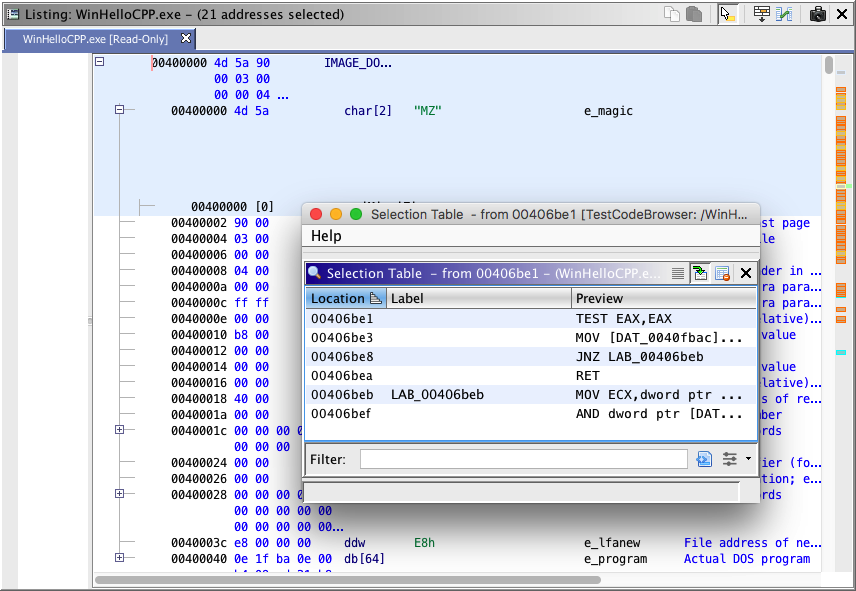
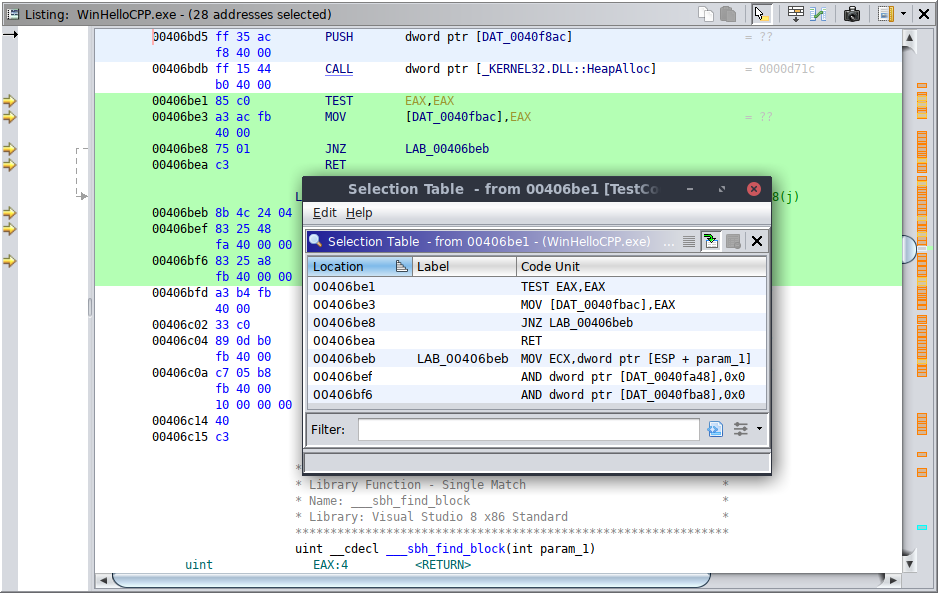
GP-1512 - fixed failing screenshot

diff --git a/Ghidra/Features/Base/src/main/java/help/screenshot/AbstractScreenShotGenerator.java b/Ghidra/Features/Base/src/main/java/help/screenshot/AbstractScreenShotGenerator.java
@@ -15,7 +15,7 @@
  */
 package help.screenshot;
 
-import static org.junit.Assert.assertNotNull;
+import static org.junit.Assert.*;
 
 import java.awt.*;
 import java.awt.geom.GeneralPath;
@@ -286,8 +286,8 @@ public abstract class AbstractScreenShotGenerator extends AbstractGhidraHeadedIn
 	/**
 	 * The same as {@link GhidraScreenShotGenerator#captureIsolatedProvider(Class, int, int)}
 	 * except this method will also capture the containing window.
-	 * 
-	 * @param clazz the provider class 
+	 *
+	 * @param clazz the provider class
 	 * @param width the width of the capture
 	 * @param height the height of the capture
 	 */
@@ -464,10 +464,10 @@ public abstract class AbstractScreenShotGenerator extends AbstractGhidraHeadedIn
 	}
 
 	/**
-	 * Captures the provider by using a screen shot and not by painting the provider directly 
+	 * Captures the provider by using a screen shot and not by painting the provider directly
 	 * (as does {@link #captureProvider(ComponentProvider)}).  Use this method if you need to
 	 * capture the provider along with any popup windows.
-	 * 
+	 *
 	 * @param provider the provider
 	 */
 	public void captureProviderWithScreenShot(ComponentProvider provider) {
@@ -487,14 +487,14 @@ public abstract class AbstractScreenShotGenerator extends AbstractGhidraHeadedIn
 	}
 
 	/**
-	 * Captures the window, including decorations.  This will use a {@link Robot} to create a 
+	 * Captures the window, including decorations.  This will use a {@link Robot} to create a
 	 * screen capture, which has the effect of getting all items within the window bounds.  This
 	 * method is needed if you wish to capture child windows, like popups/hovers.
-	 * 
-	 * <P>Other capture methods will not use the screen capture mechanism, but rather will 
-	 * directly render the given component.  In this case, subordinate windows will not be 
+	 *
+	 * <P>Other capture methods will not use the screen capture mechanism, but rather will
+	 * directly render the given component.  In this case, subordinate windows will not be
 	 * captured.  For example, see {@link #captureProvider(Class)}.
-	 * 
+	 *
 	 * @param name the provider's name
 	 */
 	public void captureProviderWindow(String name) {
@@ -504,14 +504,14 @@ public abstract class AbstractScreenShotGenerator extends AbstractGhidraHeadedIn
 	}
 
 	/**
-	 * Captures the window, including decorations.  This will use a {@link Robot} to create a 
+	 * Captures the window, including decorations.  This will use a {@link Robot} to create a
 	 * screen capture, which has the effect of getting all items within the window bounds.  This
 	 * method is needed if you wish to capture child windows, like popups/hovers.
-	 * 
-	 * <P>Other capture methods will not use the screen capture mechanism, but rather will 
-	 * directly render the given component.  In this case, subordinate windows will not be 
+	 *
+	 * <P>Other capture methods will not use the screen capture mechanism, but rather will
+	 * directly render the given component.  In this case, subordinate windows will not be
 	 * captured.  For example, see {@link #captureProvider(Class)}.
-	 * 
+	 *
 	 * @param clazz the provider's class
 	 */
 	public void captureProviderWindow(Class<? extends ComponentProvider> clazz) {
@@ -520,14 +520,14 @@ public abstract class AbstractScreenShotGenerator extends AbstractGhidraHeadedIn
 	}
 
 	/**
-	 * Captures the window, including decorations.  This will use a {@link Robot} to create a 
+	 * Captures the window, including decorations.  This will use a {@link Robot} to create a
 	 * screen capture, which has the effect of getting all items within the window bounds.  This
 	 * method is needed if you wish to capture child windows, like popups/hovers.
-	 * 
-	 * <P>Other capture methods will not use the screen capture mechanism, but rather will 
-	 * directly render the given component.  In this case, subordinate windows will not be 
+	 *
+	 * <P>Other capture methods will not use the screen capture mechanism, but rather will
+	 * directly render the given component.  In this case, subordinate windows will not be
 	 * captured.  For example, see {@link #captureProvider(Class)}.
-	 * 
+	 *
 	 * @param provider the provider
 	 */
 	public void captureProviderWindow(ComponentProvider provider) {
@@ -536,14 +536,14 @@ public abstract class AbstractScreenShotGenerator extends AbstractGhidraHeadedIn
 	}
 
 	/**
-	 * Captures the window, including decorations.  This will use a {@link Robot} to create a 
+	 * Captures the window, including decorations.  This will use a {@link Robot} to create a
 	 * screen capture, which has the effect of getting all items within the window bounds.  This
 	 * method is needed if you wish to capture child windows, like popups/hovers.
-	 * 
-	 * <P>Other capture methods will not use the screen capture mechanism, but rather will 
-	 * directly render the given component.  In this case, subordinate windows will not be 
+	 *
+	 * <P>Other capture methods will not use the screen capture mechanism, but rather will
+	 * directly render the given component.  In this case, subordinate windows will not be
 	 * captured.  For example, see {@link #captureProvider(Class)}.
-	 * 
+	 *
 	 * @param name the provider's name
 	 * @param width the desired width
 	 * @param height the desired height
@@ -557,14 +557,14 @@ public abstract class AbstractScreenShotGenerator extends AbstractGhidraHeadedIn
 	}
 
 	/**
-	 * Captures the window, including decorations.  This will use a {@link Robot} to create a 
+	 * Captures the window, including decorations.  This will use a {@link Robot} to create a
 	 * screen capture, which has the effect of getting all items within the window bounds.  This
 	 * method is needed if you wish to capture child windows, like popups/hovers.
-	 * 
-	 * <P>Other capture methods will not use the screen capture mechanism, but rather will 
-	 * directly render the given component.  In this case, subordinate windows will not be 
+	 *
+	 * <P>Other capture methods will not use the screen capture mechanism, but rather will
+	 * directly render the given component.  In this case, subordinate windows will not be
 	 * captured.  For example, see {@link #captureProvider(Class)}.
-	 * 
+	 *
 	 * @param provider the provider's name
 	 * @param width the desired width
 	 * @param height the desired height
@@ -607,7 +607,7 @@ public abstract class AbstractScreenShotGenerator extends AbstractGhidraHeadedIn
 
 			// The image returned here must be a BufferedImage, so create one
 			// if not. It may be a ToolkitImage (eg: if the icon in question
-			// is retrieved from Icons.java), which would fail on a cast to 
+			// is retrieved from Icons.java), which would fail on a cast to
 			// BufferedImage during the save operation.
 			image = ImageUtils.getBufferedImage(image);
 		});
@@ -763,7 +763,7 @@ public abstract class AbstractScreenShotGenerator extends AbstractGhidraHeadedIn
 
 	public void generateImage(Component c) {
 
-		// Note: using the screen image has the downside of capturing non-Ghidra windows when 
+		// Note: using the screen image has the downside of capturing non-Ghidra windows when
 		//       focus is lost.   Prefer the component painting itself.   This will not work
 		//       for native constructs like window decorations.
 		if (!(c instanceof Window)) {
@@ -1275,13 +1275,16 @@ public abstract class AbstractScreenShotGenerator extends AbstractGhidraHeadedIn
 
 	}
 
-	public void positionListingTop(final long address) {
-		runSwing(() -> {
+	public void positionListingTop(long address) {
+		boolean didGoTo = runSwing(() -> {
 			CodeBrowserPlugin plugin = getPlugin(tool, CodeBrowserPlugin.class);
 			FieldPanel fieldPanel = plugin.getFieldPanel();
-			plugin.goToField(addr(address), AddressFieldFactory.FIELD_NAME, 0, 0);
+			boolean result = plugin.goToField(addr(address), AddressFieldFactory.FIELD_NAME, 0, 0);
 			fieldPanel.positionCursor(0);
+			return result;
 		});
+
+		assertTrue("Go To failed for address: " + address, didGoTo);
 	}
 
 	public void positionListingCenter(final long address) {
@@ -1386,16 +1389,16 @@ public abstract class AbstractScreenShotGenerator extends AbstractGhidraHeadedIn
 	 * Draws a rectangle around the given component.  The root parameter is used to calculate
 	 * screen coordinates.   This allows you to capture a sub-component of a UI, drawing
 	 * rectangles around children of said sub-component.
-	 * 
-	 * <P>If you are unsure of what to pass for <code>root</code>, the call 
+	 *
+	 * <P>If you are unsure of what to pass for <code>root</code>, the call
 	 * {@link #drawRectangleAround(JComponent, Color, int)} instead.
-	 * 
+	 *
 	 * @param component the component to be en-rectangled
-	 * @param root the outermost container widget being displayed; null implies a 
+	 * @param root the outermost container widget being displayed; null implies a
 	 * 		  top-level parent
 	 * @param color the rectangle color
 	 * @param padding the space between the rectangle and the component; more space makes
-	 *        the component more visible 
+	 *        the component more visible
 	 * @return the bounds of the drawn rectangle
 	 */
 	public Rectangle drawRectangleAround(JComponent component, JComponent root, Color color,
@@ -1583,9 +1586,9 @@ public abstract class AbstractScreenShotGenerator extends AbstractGhidraHeadedIn
 
 	/**
 	 * Crops a part of the current image, keeping what is inside the given bounds.  This method
-	 * creates a shape such that the top and bottom of the cropped image have a jagged line, 
+	 * creates a shape such that the top and bottom of the cropped image have a jagged line,
 	 * looking somewhat like a sideways lightening bolt.
-	 * 
+	 *
 	 * @param bounds the bounds to keep
 	 * @return the snippet
 	 */

diff --git a/Ghidra/Test/IntegrationTest/src/screen/java/help/screenshot/CodeBrowserPluginScreenShots.java b/Ghidra/Test/IntegrationTest/src/screen/java/help/screenshot/CodeBrowserPluginScreenShots.java
@@ -144,15 +144,16 @@ public class CodeBrowserPluginScreenShots extends GhidraScreenShotGenerator {
 	@Test
 	public void testCaptureSelectionTable() {
 		setToolSize(1100, 700);
-		positionListingTop(0x0406bd7);
-		makeSelection(0x0406be1, 0x0406bf1);
+		positionListingTop(0x0406bd5);
+		makeSelection(0x0406be1, 0x0406bf6);
 
 		performAction("Create Table From Selection", "CodeBrowserPlugin", true);
 		Window window = waitForWindowByTitleContaining("Selection Table");
 		Point loc = plugin.getListingPanel().getLocationOnScreen();
 		Dimension size = window.getSize();
 		window.setBounds(loc.x + 300, loc.y + 150, size.width, 300);
-		captureProvider(CodeViewerProvider.class);
+		CodeViewerProvider provider = getProvider(CodeViewerProvider.class);
+		captureProviderWithScreenShot(provider);
 	}
 
 	@Test
